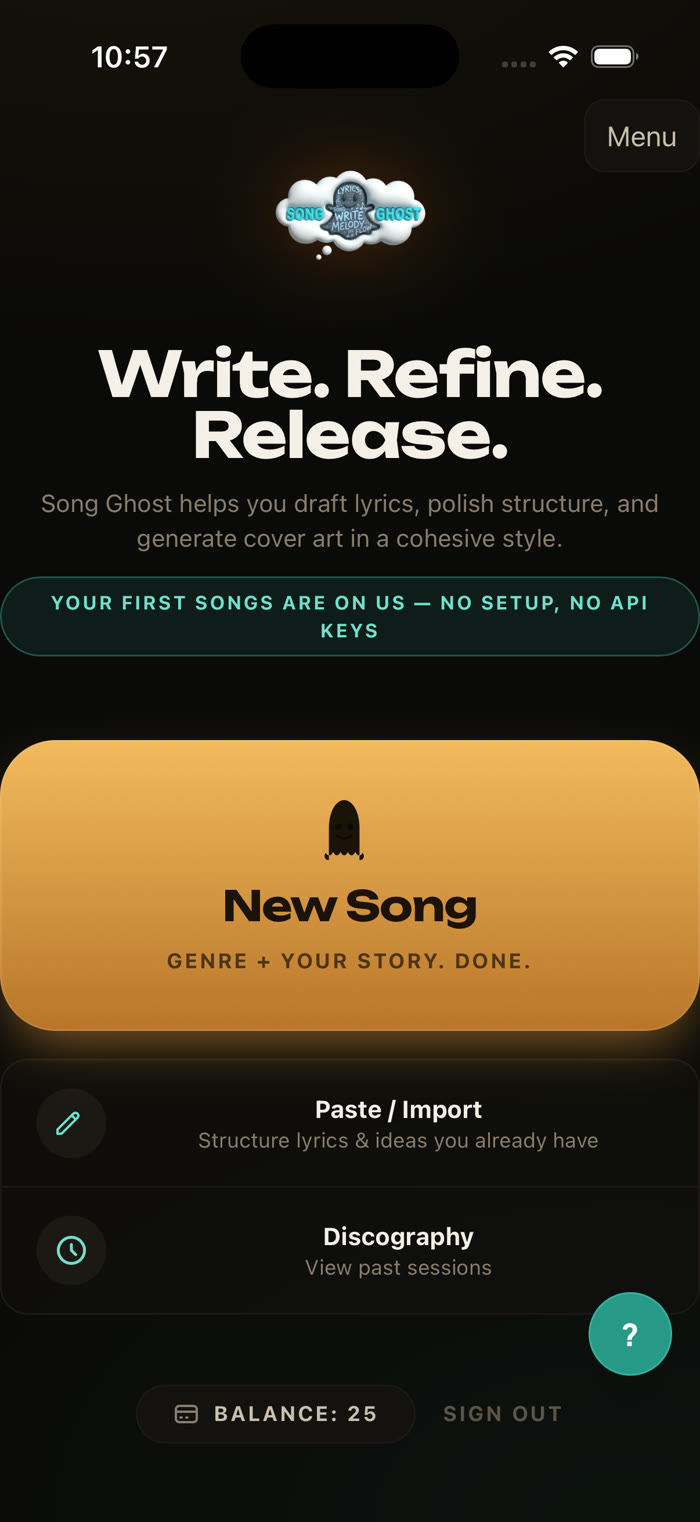
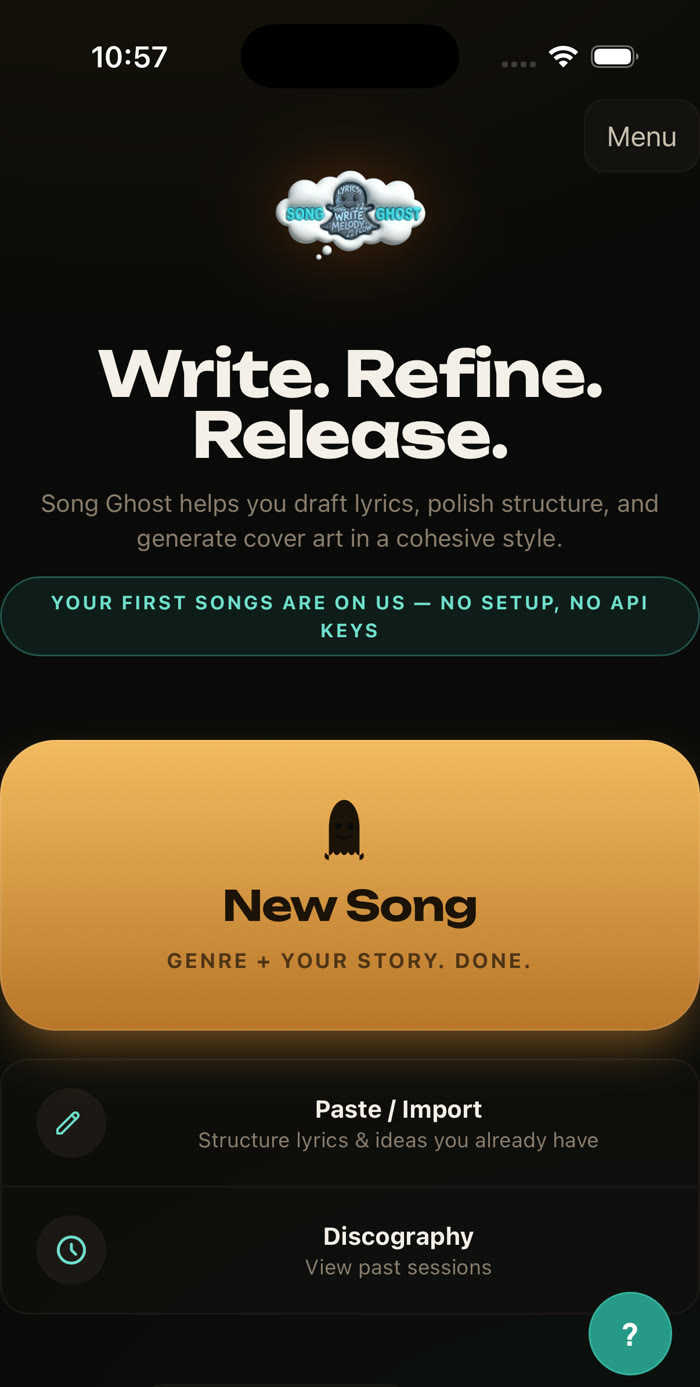
Iteration pass 2: how-it-works alignment, screenshot chrome, large-screen display size
- Centring the steps list against the taller phone left a dead band under the
  heading; both columns are top-aligned now.
- Cropped the app screenshot's session bar. "SIGN OUT" and a credit balance
  mean nothing to someone who has never opened the app, and the crop keeps the
  capture honest — it is still the real screen, just framed to the product.
- The h1 topped out at 4rem, which read small past ~1600px. Raised the ceiling
  to 4.6rem; the authored line breaks still fit the column at 1920.

diff --git a/landing/styles.css b/landing/styles.css
@@ -148,7 +148,7 @@
    fits its column, or the browser re-breaks them and the rag falls apart. */
 .hero__type h1 {
   margin: 1.1rem 0 0;
-  font-size: clamp(2.2rem, 3.5vw + 0.75rem, 4rem);
+  font-size: clamp(2.2rem, 3.5vw + 0.75rem, 4.6rem);
 }
 .hero__type h1 .line { display: block; }
 @media (min-width: 901px) {
@@ -403,7 +403,9 @@
   display: grid;
   grid-template-columns: minmax(0, 1.05fr) minmax(0, 0.95fr);
   gap: clamp(2rem, 5vw, 5rem);
-  align-items: center;
+  /* Top-aligned: centring the shorter steps list against the taller phone
+     opened a dead band between the heading and step 01. */
+  align-items: start;
 }
 
 .steps { list-style: none; margin: 0; padding: 0; }

diff --git a/landing/index.html b/landing/index.html
@@ -215,7 +215,7 @@ setTimeout(function () {
 
         <figure class="device" data-reveal>
           <div class="device__screen">
-            <img src="/media/app-ios-home.jpg" width="700" height="1522" loading="lazy"
+            <img src="/media/app-ios-home.jpg" width="700" height="1387" loading="lazy"
                  decoding="async"
                  alt="The SongGhost iOS app: a New Song button reading “genre + your story, done”,
                       with Paste / Import and Discography below it.">
